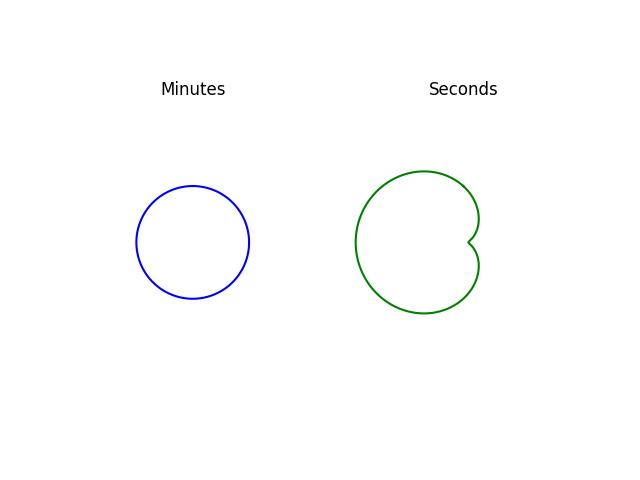
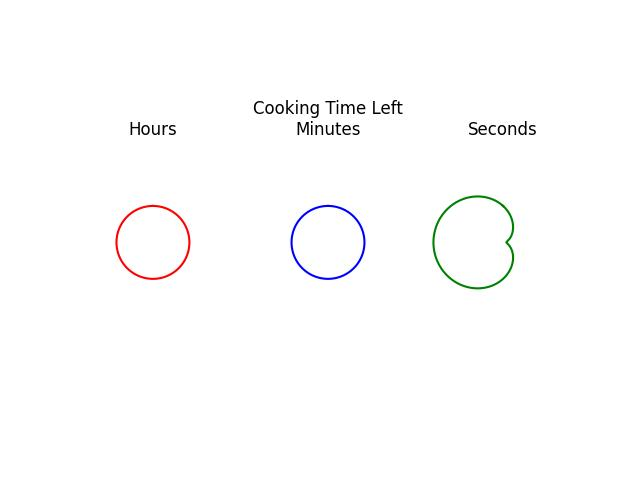
Added time to flip feature, time titles

diff --git a/Lab 2/escreen_clock.py b/Lab 2/escreen_clock.py
@@ -105,35 +105,56 @@ def disp_out(image_filepath):
     t_image = image_raspPi(image_filepath)
     disp.image(t_image)
 
-# Timer
+# Timer (Currently only works for mintues and seconds)
 def timer(image_name):
   
     # Get cooking time of food
-    t = get_cooking_time(image_name) # t = minutes (type: int)
+    t = get_cooking_time(image_name) # t = seconds (type: int)
 
     # Start Timer
+    hour = 0
     while t:
+        
         mins, secs = divmod(t, 60)      # Convert minute to minutes and seconds
-        print(f"{mins:02d}:{secs:02d}") # For troubleshooting
+        # hours, mins = divmod(mins, 60) 
+        print(f"{hour:02d}:{mins:02d}:{secs:02d}") # For troubleshooting
+        # if hour != hours:
+        #     hour = hours
+        # if hour - hours ==1:
+        #     mins = 60
 
-        if mins*(secs/60) == t:
+        halftime = float(2*(mins*60 + secs))
+        print([mins, secs])
+        print(float(2*(mins*60 + secs))) 
+        print(float(get_cooking_time(image_name)))
+        # Display Time to Flip Protein
+        if halftime == float(get_cooking_time(image_name)):
             disp_out(img_filepaths['flip_protein'])
             sleep(3)
+        elif halftime == float(get_cooking_time(image_name))-1: # Accounts for odd cooking time
+            disp_out(img_filepaths['flip_protein'])
+            sleep(5)
 
         ss = a_sec * np.sin(secs*rads)
         mm = a_min * np.sin(mins*rads)
+        hh = a_min * np.sin(hour*rads)
 
         # Plot countdown as a polar plot of sin()
-        fig, (ax2, ax3) = plt.subplots(1, 2, subplot_kw=dict(projection='polar'))
+        fig, (ax1, ax2, ax3) = plt.subplots(1, 3, subplot_kw=dict(projection='polar'))
+        ax1.plot(rads, hh, color='r',)
+        ax1.axis('off') # Remove Degree Labels on Polar Subplots
         ax2.plot(rads, mm, color='b',)
         ax2.axis('off') # Remove Degree Labels on Polar Subplots
         ax3.plot(rads, ss, color='g')
         ax3.axis('off') # Remove Degree Labels on Polar Subplots
+        ax1.set_yticklabels([])
+        ax1.set_theta_zero_location('N')
         ax2.set_yticklabels([])
         ax2.set_theta_zero_location('N')
         ax3.set_yticklabels([])
         ax3.set_theta_zero_location('N')
-        ax2.title.set_text('Minutes')
+        ax1.title.set_text('Hours')
+        ax2.title.set_text('Cooking Time Left\nMinutes')
         ax3.title.set_text('Seconds')
 
         # Save subplots as image 
@@ -144,6 +165,7 @@ def timer(image_name):
         # Subtract 1 second
         sleep(1)
         t -= 1
+    sleep(1.5)
 
         
 #Helper function to pad image background with white
@@ -235,8 +257,10 @@ def plot_time():
         ax3.set_yticklabels([])
         ax3.set_theta_zero_location('N')
         ax1.title.set_text('Hours')
-        ax2.title.set_text('Minutes')
+        ax2.title.set_text('Current Time\nMinutes')
         ax3.title.set_text('Seconds')
+        
+        
 
         # Save subplots as image 
         plt.savefig(img_filepaths['time_output'])
@@ -469,7 +493,7 @@ def cook():
         disp_out(img_filepaths['time_output'])
 
     # Display Welcome Screen
-    sleep(2)
+    sleep(1)
     set_buttons_HIGH()
     while GPIO.input(23) == GPIO.HIGH and GPIO.input(24) == GPIO.HIGH:
         disp_out(img_filepaths['grill_menu'])
@@ -477,9 +501,9 @@ def cook():
 
     # Display Available Proteins
     # sleep(1)
-    sleep(2)
-    set_buttons_HIGH()
     sleep(1)
+    set_buttons_HIGH()
+    sleep(0.1)
     flag = True
     for key, value in img_filepaths.items():
         if flag == True:
